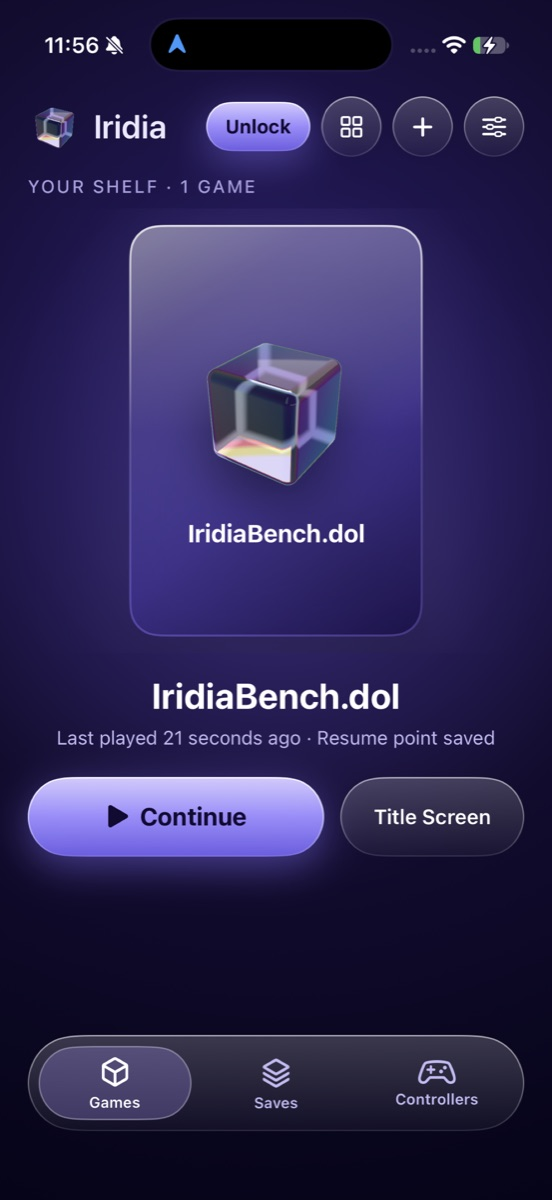
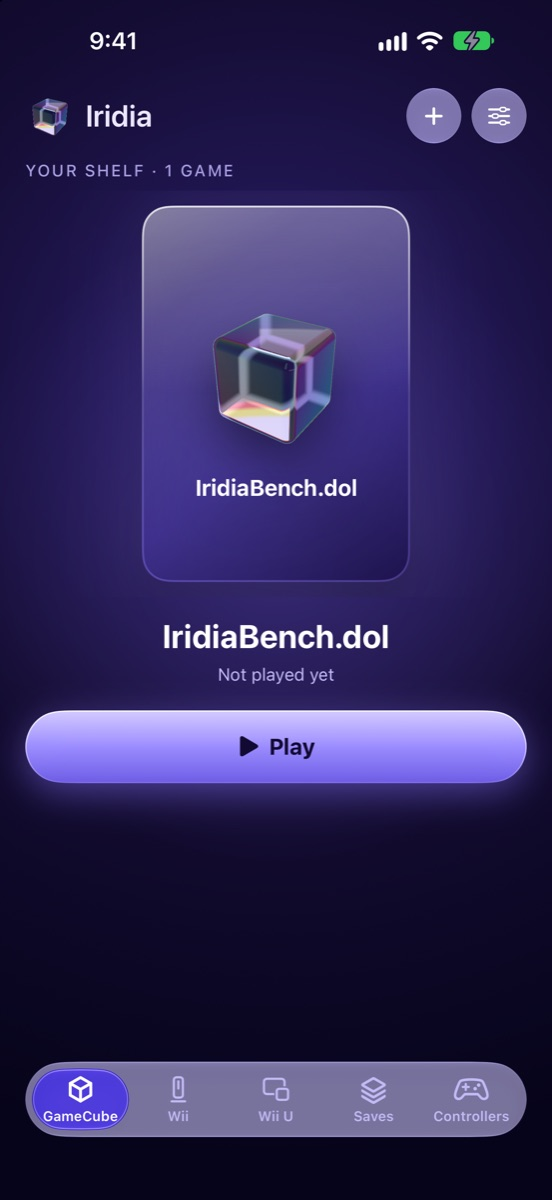
Home page for 1.2: Wii, source link, updated questions and structured data

Changed region(s): [[0.0308, 0.0, 0.9855, 0.74], [0.0308, 0.8633, 0.9547, 0.9558], [0.7391, 0.4317, 0.7699, 0.4625]]

diff --git a/index.html b/index.html
@@ -3,33 +3,69 @@
 <head>
 <meta charset="utf-8">
 <meta name="viewport" content="width=device-width, initial-scale=1">
-<title>Iridia: GameCube and Wii U emulator for iPhone and iPad</title>
-<meta name="description" content="Iridia is a GameCube emulator on the App Store for iPhone and iPad, now with experimental Wii U support. No JIT, no sideloading, Metal graphics. Plays the games you own. Free to try.">
+<title>Iridia: GameCube, Wii and Wii U emulator for iPhone and iPad</title>
+<meta name="description" content="Iridia is a GameCube, Wii and Wii U emulator on the App Store for iPhone and iPad. No JIT, no sideloading, Metal graphics. Plays the games you own. Free to try.">
 <link rel="canonical" href="https://iridiaemu.github.io/iridia/">
 <link rel="icon" href="img/icon.png">
 <link rel="apple-touch-icon" href="img/icon.png">
 <meta name="apple-itunes-app" content="app-id=6825803351">
 <meta property="og:type" content="website">
-<meta property="og:title" content="Iridia: GameCube and Wii U emulator for iPhone and iPad">
-<meta property="og:description" content="A GameCube emulator on the App Store, now with experimental Wii U support. No JIT, Metal graphics, free to try.">
+<meta property="og:site_name" content="Iridia">
+<meta property="og:title" content="Iridia: GameCube, Wii and Wii U emulator for iPhone and iPad">
+<meta property="og:description" content="A GameCube, Wii and Wii U emulator on the App Store. No JIT, no sideloading, free to try. Plays the games you own.">
 <meta property="og:url" content="https://iridiaemu.github.io/iridia/">
 <meta property="og:image" content="https://iridiaemu.github.io/iridia/img/library.jpg">
+<meta name="twitter:card" content="summary">
+<meta name="twitter:title" content="Iridia: GameCube, Wii and Wii U emulator for iPhone and iPad">
+<meta name="twitter:description" content="A GameCube, Wii and Wii U emulator on the App Store. No JIT, no sideloading, free to try. Plays the games you own.">
 <script type="application/ld+json">
 {
   "@context": "https://schema.org",
-  "@type": "MobileApplication",
+  "@type": "SoftwareApplication",
   "name": "Iridia",
-  "alternateName": "IridiaEmu",
+  "alternateName": [
+    "Iridia: Game Emulator",
+    "IridiaEmu"
+  ],
   "operatingSystem": "iOS, iPadOS",
-  "applicationCategory": "EntertainmentApplication",
-  "description": "A GameCube emulator for iPhone and iPad that runs without JIT, with experimental Wii U support. Plays the game files you own.",
-  "featureList": "GameCube emulation, experimental Wii U emulation, no JIT, Metal graphics, touch controls, MFi Xbox PlayStation and Switch controllers, save states, TV and GamePad screen layouts",
+  "applicationCategory": "GameApplication",
+  "applicationSubCategory": "Emulator",
+  "description": "A GameCube, Wii and Wii U emulator for iPhone and iPad that runs without JIT. Plays the game files you own.",
+  "featureList": "GameCube emulation, Wii emulation, experimental Wii U emulation, no JIT, Metal graphics, touch controls, Wii Remote Nunchuk and Classic Controller touch controls, MFi Xbox PlayStation and Switch controllers, save states, TV and GamePad screen layouts",
+  "softwareVersion": "1.2",
   "url": "https://iridiaemu.github.io/iridia/",
-  "downloadUrl": "https://apps.apple.com/app/id6825803351",
-  "installUrl": "https://apps.apple.com/app/id6825803351",
+  "downloadUrl": "https://apps.apple.com/app/iridia/id6825803351",
+  "installUrl": "https://apps.apple.com/app/iridia/id6825803351",
+  "sameAs": [
+    "https://apps.apple.com/app/iridia/id6825803351",
+    "https://github.com/IridiaEmu/iridia"
+  ],
   "image": "https://iridiaemu.github.io/iridia/img/icon.png",
-  "screenshot": ["https://iridiaemu.github.io/iridia/img/library.jpg", "https://iridiaemu.github.io/iridia/img/controls.jpg"],
-  "offers": { "@type": "Offer", "price": "0", "priceCurrency": "USD" }
+  "screenshot": [
+    "https://iridiaemu.github.io/iridia/img/library.jpg",
+    "https://iridiaemu.github.io/iridia/img/wii.jpg",
+    "https://iridiaemu.github.io/iridia/img/controls.jpg"
+  ],
+  "isAccessibleForFree": true,
+  "offers": [
+    {
+      "@type": "Offer",
+      "name": "Iridia",
+      "price": "0",
+      "priceCurrency": "USD",
+      "url": "https://apps.apple.com/app/iridia/id6825803351",
+      "category": "Free"
+    },
+    {
+      "@type": "Offer",
+      "name": "Unlock Full Version",
+      "description": "In-app purchase. Removes the time limit on play sessions for GameCube, Wii and Wii U.",
+      "price": "2.99",
+      "priceCurrency": "USD",
+      "url": "https://apps.apple.com/app/iridia/id6825803351",
+      "category": "In-app purchase"
+    }
+  ]
 }
 </script>
 <script type="application/ld+json">
@@ -37,20 +73,94 @@
   "@context": "https://schema.org",
   "@type": "FAQPage",
   "mainEntity": [
-    { "@type": "Question", "name": "Is there a GameCube emulator on the App Store?",
-      "acceptedAnswer": { "@type": "Answer", "text": "Yes. Iridia is a GameCube emulator available on the App Store for iPhone and iPad. Download it free, add your own game files, and play." } },
-    { "@type": "Question", "name": "Is there a Wii U emulator for iPhone?",
-      "acceptedAnswer": { "@type": "Answer", "text": "Yes. Iridia on the App Store has experimental Wii U support next to its GameCube library. It needs a device with 8 GB of memory, such as iPhone 15 Pro, any iPhone 16 or newer, or an iPad with M1 or later. Games may run slowly or show glitches." } },
-    { "@type": "Question", "name": "How do I play GameCube games on my iPhone?",
-      "acceptedAnswer": { "@type": "Answer", "text": "Install Iridia from the App Store, then add your own game files (disc backups or homebrew) with Choose a Game File in Iridia or by copying them to On My iPhone, Iridia, Games in the Files app." } },
-    { "@type": "Question", "name": "How do I play Wii U games on my iPhone?",
-      "acceptedAnswer": { "@type": "Answer", "text": "Install Iridia from the App Store and tap Wii U in the tab bar. In the Files app, copy your own Wii U game files and your keys.txt to On My iPhone, Iridia, Wii U. Disc images (WUD, WUX), installed title folders and homebrew (RPX) work." } },
-    { "@type": "Question", "name": "Does Iridia need JIT or sideloading?",
-      "acceptedAnswer": { "@type": "Answer", "text": "No. Iridia runs without JIT, for GameCube and Wii U, so it works straight from the App Store with no sideloading, no AltStore and no debugger." } },
-    { "@type": "Question", "name": "Does Iridia come with games?",
-      "acceptedAnswer": { "@type": "Answer", "text": "No. Iridia doesn't include any games, keys, BIOS or firmware. You play game files you own." } },
-    { "@type": "Question", "name": "Is Iridia free?",
-      "acceptedAnswer": { "@type": "Answer", "text": "Iridia is free to download. Every GameCube game launch gives you 10 minutes of free play, and every Wii U game launch 20 minutes. One one-time purchase unlocks unlimited play for both. No subscription, no ads, no tracking." } }
+    {
+      "@type": "Question",
+      "name": "Is there a GameCube emulator on the App Store?",
+      "acceptedAnswer": {
+        "@type": "Answer",
+        "text": "Yes. Iridia is a GameCube, Wii and Wii U emulator available on the App Store for iPhone and iPad. Download it free, add your own game files, and play."
+      }
+    },
+    {
+      "@type": "Question",
+      "name": "Can I play Wii games on iPhone?",
+      "acceptedAnswer": {
+        "@type": "Answer",
+        "text": "Yes. Iridia 1.2 adds a Wii shelf next to GameCube and Wii U. It has touch controls for the Wii Remote, Nunchuk and Classic Controller, the pointer is aimed by touch or by tilting your device, and game controllers work too. Real Wii Remotes can't connect, because iOS doesn't allow it."
+      }
+    },
+    {
+      "@type": "Question",
+      "name": "How do I play Wii games on my iPhone?",
+      "acceptedAnswer": {
+        "@type": "Answer",
+        "text": "Install Iridia from the App Store and tap Wii in the tab bar. Tap +, then Choose a Game File, or copy your own game files to On My iPhone, Iridia, Wii in the Files app. RVZ, WIA, ISO, WBFS, GCZ and CISO disc images and homebrew work, and RVZ is the best choice. ZIP and 7Z files are unpacked for you."
+      }
+    },
+    {
+      "@type": "Question",
+      "name": "Is there a Wii U emulator for iPhone?",
+      "acceptedAnswer": {
+        "@type": "Answer",
+        "text": "Yes. Iridia has experimental Wii U support next to its GameCube and Wii shelves. It needs a device with 8 GB of memory, such as iPhone 15 Pro or later, an iPad with M1 or later, or iPad mini with A17 Pro. Games may run slowly or show glitches."
+      }
+    },
+    {
+      "@type": "Question",
+      "name": "How do I play GameCube games on my iPhone?",
+      "acceptedAnswer": {
+        "@type": "Answer",
+        "text": "Install Iridia from the App Store, then tap +, then Choose a Game File, or copy your own game files to On My iPhone, Iridia, GameCube in the Files app (the folder was named Games before version 1.2). ISO, RVZ, GCM and CISO files work, and ZIP and 7Z files are unpacked for you."
+      }
+    },
+    {
+      "@type": "Question",
+      "name": "How do I play Wii U games on my iPhone?",
+      "acceptedAnswer": {
+        "@type": "Answer",
+        "text": "Install Iridia and tap Wii U in the tab bar. Tap +, then Choose a Game File, or copy your own game files to On My iPhone, Iridia, Wii U in the Files app. WUA files, title folders and homebrew (RPX) work."
+      }
+    },
+    {
+      "@type": "Question",
+      "name": "Does Iridia need JIT or sideloading?",
+      "acceptedAnswer": {
+        "@type": "Answer",
+        "text": "No. Iridia runs without JIT for GameCube, Wii and Wii U, so it works straight from the App Store with no sideloading, no AltStore and no debugger."
+      }
+    },
+    {
+      "@type": "Question",
+      "name": "Does Iridia come with games?",
+      "acceptedAnswer": {
+        "@type": "Answer",
+        "text": "No. Iridia includes no games, keys, BIOS or firmware. You play game files you own: your disc backups or homebrew."
+      }
+    },
+    {
+      "@type": "Question",
+      "name": "Which iPhones work?",
+      "acceptedAnswer": {
+        "@type": "Answer",
+        "text": "Iridia needs iOS 26 or later. GameCube plays best on newer phones, and Wii games run best on recent iPhones and iPads. Wii U needs a device with 8 GB of memory: iPhone 15 Pro or later, an iPad with M1 or later, or iPad mini with A17 Pro. How well a game runs depends on the game and on your device, so use the free play time to check your games before you buy the unlock."
+      }
+    },
+    {
+      "@type": "Question",
+      "name": "Is Iridia free?",
+      "acceptedAnswer": {
+        "@type": "Answer",
+        "text": "Iridia is free to download. Every time you start a game you get a free play session: 10 minutes for GameCube and Wii, 20 minutes for Wii U, as often as you like. One purchase unlocks unlimited play on all three. No subscription, no ads, no tracking."
+      }
+    },
+    {
+      "@type": "Question",
+      "name": "Is Iridia open source?",
+      "acceptedAnswer": {
+        "@type": "Answer",
+        "text": "Yes. Iridia is free software based on the Dolphin and Cemu emulators. The source is at github.com/IridiaEmu/iridia."
+      }
+    }
   ]
 }
 </script>
@@ -67,7 +177,7 @@ a{color:var(--link)}hr{border:0;border-top:1px solid var(--line);margin:40px 0 2
 .lead{font-size:20px;margin:16px 0 24px}
 .store{display:inline-block;background:var(--btn);color:var(--btnfg);text-decoration:none;font-weight:600;padding:14px 26px;border-radius:14px;font-size:18px}
 .shots{display:flex;gap:16px;margin:32px 0 0;overflow-x:auto}
-.shots img{width:calc(50% - 8px);max-width:300px;border-radius:22px;border:1px solid var(--line)}
+.shots img{width:calc(33.3% - 11px);min-width:150px;max-width:230px;border-radius:22px;border:1px solid var(--line)}
 nav a{margin-right:16px;font-size:15px}
 </style>
 </head>
@@ -77,59 +187,70 @@ nav a{margin-right:16px;font-size:15px}
 <img src="img/icon.png" alt="Iridia app icon">
 <h1>Iridia</h1>
 </header>
-<p class="lead">Play the GameCube games you own on iPhone and iPad, and now Wii U games too (experimental). Iridia is an emulator on the App Store: no JIT, no sideloading, made for Apple devices.</p>
-<p><a class="store" href="https://apps.apple.com/app/id6825803351">Download on the App Store</a></p>
-<p class="muted">Free to download. Every game launch includes free play time (10 minutes for GameCube, 20 for Wii U), and one one-time purchase unlocks unlimited play for both.</p>
+<p class="lead"><strong>Iridia: GameCube, Wii and Wii U emulator for iPhone and iPad.</strong> Play the games you own, straight from the App Store: no JIT, no sideloading, made for Apple devices.</p>
+<p><a class="store" href="https://apps.apple.com/app/iridia/id6825803351">Download on the App Store</a></p>
+<p class="muted">Free to download. Every time you start a game you get free play time (10 minutes for GameCube and Wii, 20 for Wii U), and one purchase unlocks unlimited play on all three. Open source: <a href="https://github.com/IridiaEmu/iridia">github.com/IridiaEmu/iridia</a>.</p>
 
 <div class="shots">
-<img src="img/library.jpg" alt="Iridia's GameCube game library on iPhone">
+<img src="img/library.jpg" alt="Iridia's GameCube shelf on iPhone, with tabs for GameCube, Wii and Wii U">
+<img src="img/wii.jpg" alt="Iridia's Wii shelf on iPhone">
 <img src="img/controls.jpg" alt="Iridia's touch controls on iPhone">
 </div>
 
 <h2>Why Iridia</h2>
 <ul>
 <li><strong>Straight from the App Store.</strong> Iridia runs without JIT, so there's nothing to sideload and no extra steps.</li>
-<li><strong>GameCube and Wii U in one app.</strong> Your GameCube shelf, plus a Wii U section with its own controls.</li>
-<li><strong>Fast on iPhone.</strong> A tuned interpreter and Metal graphics, with up to 8x internal resolution for GameCube on recent iPhones.</li>
-<li><strong>Touch or controller.</strong> Touch controls that look and feel like the real pad, or use any MFi, Xbox, PlayStation or Switch controller.</li>
-<li><strong>Pick up where you left off.</strong> Save states, memory cards and per-game settings.</li>
+<li><strong>One library for GameCube, Wii and Wii U.</strong> Each system has its own shelf, and you switch between them in the tab bar.</li>
+<li><strong>Fast on iPhone.</strong> A tuned interpreter and Metal graphics, with up to 8x internal resolution for GameCube on newer devices.</li>
+<li><strong>Touch or controller.</strong> Touch controls you can move and resize, or use any MFi, Xbox, PlayStation or Switch controller.</li>
+<li><strong>Pick up where you left off.</strong> Save states, memory cards and settings for each game.</li>
 <li><strong>Private.</strong> No ads, no tracking, no account.</li>
+</ul>
+
+<h2>Wii (new in 1.2)</h2>
+<ul>
+<li><strong>Wii controls on screen.</strong> Touch controls for the Wii Remote, Nunchuk, sideways Wii Remote and Classic Controller. Each game remembers which one it uses.</li>
+<li><strong>Aim the pointer by touch or tilt.</strong> Drag on the picture, or tilt your iPhone or iPad. Shake and recenter are on screen too.</li>
+<li><strong>Game controllers.</strong> MFi, Xbox, PlayStation and Switch controllers work. Real Wii Remotes can't connect, because iOS doesn't allow it.</li>
+<li><strong>Files that work:</strong> RVZ, WIA, ISO, WBFS, GCZ and CISO disc images, plus homebrew. RVZ is the best choice.</li>
+<li>Wii games need more power than GameCube games, and run best on recent iPhones and iPads.</li>
 </ul>
 
 <h2>Wii U (experimental)</h2>
 <ul>
-<li><strong>Both screens, your way.</strong> TV only, TV with the GamePad in a small window, GamePad full screen, or both stacked on iPad and iPhone in portrait. Swap the two screens any time, and each game remembers its layout.</li>
+<li><strong>Both screens, your way.</strong> TV only, TV with the GamePad in a small window, GamePad full screen, or both stacked (on iPad, and on iPhone in portrait). Swap the two screens any time, and each game remembers its layout.</li>
 <li><strong>Touch the GamePad screen.</strong> Tap and draw right on the GamePad picture, with your finger or Apple Pencil.</li>
 <li><strong>Motion controls.</strong> Tilt your iPhone or iPad to aim, like the GamePad.</li>
-<li><strong>Needs 8 GB of memory:</strong> iPhone 15 Pro, any iPhone 16 or newer, iPad with M1 or later, or iPad mini with A17 Pro. Games may run slowly or show glitches.</li>
+<li><strong>Needs 8 GB of memory:</strong> iPhone 15 Pro or later, iPad with M1 or later, or iPad mini with A17 Pro. Games may run slowly or show glitches.</li>
 </ul>
 
 <h2>Questions</h2>
 <h3>Is there a GameCube emulator on the App Store?</h3>
-<p>Yes. Iridia is a GameCube emulator available on the App Store for iPhone and iPad. Download it free, add your own game files, and play.</p>
+<p>Yes. Iridia is a GameCube, Wii and Wii U emulator available on the App Store for iPhone and iPad. Download it free, add your own game files, and play.</p>
+<h3>Can I play Wii games on iPhone?</h3>
+<p>Yes. Iridia 1.2 adds a Wii shelf next to GameCube and Wii U. It has touch controls for the Wii Remote, Nunchuk and Classic Controller, the pointer is aimed by touch or by tilting your device, and game controllers work too. Real Wii Remotes can&#x27;t connect, because iOS doesn&#x27;t allow it.</p>
+<h3>How do I play Wii games on my iPhone?</h3>
+<p>Install Iridia from the App Store and tap Wii in the tab bar. Tap +, then Choose a Game File, or copy your own game files to On My iPhone, Iridia, Wii in the Files app. RVZ, WIA, ISO, WBFS, GCZ and CISO disc images and homebrew work, and RVZ is the best choice. ZIP and 7Z files are unpacked for you.</p>
 <h3>Is there a Wii U emulator for iPhone?</h3>
-<p>Yes. Iridia on the App Store has experimental Wii U support next to its GameCube library. It needs a device with 8 GB of memory (see above). Wii U support is new: games may run slowly or show glitches, so use the free play time to check your games first.</p>
+<p>Yes. Iridia has experimental Wii U support next to its GameCube and Wii shelves. It needs a device with 8 GB of memory, such as iPhone 15 Pro or later, an iPad with M1 or later, or iPad mini with A17 Pro. Games may run slowly or show glitches.</p>
 <h3>How do I play GameCube games on my iPhone?</h3>
-<p>Install Iridia from the App Store, then add your game files:</p>
-<ul>
-<li>In Iridia, tap Choose a Game File, or</li>
-<li>In the Files app, copy them to On My iPhone &rarr; Iridia &rarr; Games.</li>
-</ul>
-<p>ISO, RVZ, GCM and CISO files work. ZIP and 7Z archives are unpacked for you.</p>
+<p>Install Iridia from the App Store, then tap +, then Choose a Game File, or copy your own game files to On My iPhone, Iridia, GameCube in the Files app (the folder was named Games before version 1.2). ISO, RVZ, GCM and CISO files work, and ZIP and 7Z files are unpacked for you.</p>
 <h3>How do I play Wii U games on my iPhone?</h3>
-<p>Install Iridia and tap Wii U in the tab bar. In the Files app, copy your own game files and your keys.txt to On My iPhone &rarr; Iridia &rarr; Wii U. Disc images (WUD, WUX), installed title folders and homebrew (RPX) work.</p>
+<p>Install Iridia and tap Wii U in the tab bar. Tap +, then Choose a Game File, or copy your own game files to On My iPhone, Iridia, Wii U in the Files app. WUA files, title folders and homebrew (RPX) work.</p>
 <h3>Does Iridia need JIT or sideloading?</h3>
-<p>No. Iridia runs without JIT, for GameCube and Wii U, so it works straight from the App Store with no sideloading, no AltStore and no debugger.</p>
+<p>No. Iridia runs without JIT for GameCube, Wii and Wii U, so it works straight from the App Store with no sideloading, no AltStore and no debugger.</p>
 <h3>Does Iridia come with games?</h3>
-<p>No. Iridia doesn't include any games, keys, BIOS or firmware. You play game files you own: your disc backups or homebrew.</p>
+<p>No. Iridia includes no games, keys, BIOS or firmware. You play game files you own: your disc backups or homebrew.</p>
 <h3>Which iPhones work?</h3>
-<p>GameCube needs an iPhone 12 or newer. Wii U needs a device with 8 GB of memory. How well a game runs depends on the game and on your device, so use the free play time to check your games before you buy the unlock.</p>
+<p>Iridia needs iOS 26 or later. GameCube plays best on newer phones, and Wii games run best on recent iPhones and iPads. Wii U needs a device with 8 GB of memory: iPhone 15 Pro or later, an iPad with M1 or later, or iPad mini with A17 Pro. How well a game runs depends on the game and on your device, so use the free play time to check your games before you buy the unlock.</p>
 <h3>Is Iridia free?</h3>
-<p>Iridia is free to download. Every GameCube game launch gives you 10 minutes of free play and every Wii U game launch 20 minutes, as often as you like. One one-time purchase unlocks unlimited play for both. No subscription.</p>
+<p>Iridia is free to download. Every time you start a game you get a free play session: 10 minutes for GameCube and Wii, 20 minutes for Wii U, as often as you like. One purchase unlocks unlimited play on all three. No subscription, no ads, no tracking.</p>
+<h3>Is Iridia open source?</h3>
+<p>Yes. Iridia is free software based on the Dolphin and Cemu emulators. The source is at <a href="https://github.com/IridiaEmu/iridia">github.com/IridiaEmu/iridia</a>.</p>
 
 <hr>
-<nav><a href="support/">Support</a><a href="privacy/">Privacy Policy</a></nav>
-<p class="muted">GameCube and Wii U are trademarks of Nintendo. Iridia is not affiliated with or endorsed by Nintendo.</p>
+<nav><a href="https://apps.apple.com/app/iridia/id6825803351">App Store</a><a href="https://github.com/IridiaEmu/iridia">Source on GitHub</a><a href="support/">Support</a><a href="privacy/">Privacy Policy</a></nav>
+<p class="muted">GameCube, Wii and Wii U are Nintendo trademarks. Iridia is not affiliated with or endorsed by Nintendo.</p>
 </main>
 </body>
 </html>

diff --git a/support/index.html b/support/index.html
@@ -24,15 +24,15 @@ nav a{margin-right:16px;font-size:15px}
 <p>Email <a href="mailto:iridiadev@gmail.com">iridiadev@gmail.com</a>. Please include your iPhone or iPad model, your iOS version, and the game you were playing. You can also use Report a Bug in Iridia's Settings, which fills in your device and app version for you.</p>
 
 <h2>Which iPhones work?</h2>
-<p>Iridia needs an iPhone 12 or newer. How well a game runs depends on the game and on your phone. Every time you start a game you get 10 minutes of free play, so you can check how your games run before you buy the unlock.</p>
+<p>Iridia needs iOS 26 or later. GameCube plays best on newer phones, and Wii games run best on recent iPhones and iPads. Wii U needs a device with 8 GB of memory: iPhone 15 Pro or later, an iPad with M1 or later, or iPad mini with A17 Pro. How well a game runs depends on the game and on your device. Every time you start a game you get free play time (10 minutes for GameCube and Wii, 20 for Wii U), so you can check how your games run before you buy the unlock.</p>
 
 <h2>How do I add games?</h2>
-<p>Iridia doesn't include any games. Add your own game files (your disc backups or homebrew):</p>
+<p>Iridia includes no games, keys, BIOS or firmware. Add your own game files (your disc backups or homebrew):</p>
 <ul>
-<li>In Iridia, tap Choose a Game File, or</li>
-<li>In the Files app, copy them to On My iPhone &rarr; Iridia &rarr; Games.</li>
+<li>In Iridia, tap +, then Choose a Game File, or</li>
+<li>In the Files app, copy them to On My iPhone &rarr; Iridia, into the GameCube, Wii or Wii U folder. (The GameCube folder was named Games before version 1.2.)</li>
 </ul>
-<p>ISO, RVZ, GCM and CISO files work. ZIP and 7Z archives are unpacked for you.</p>
+<p>GameCube: ISO, RVZ, GCM and CISO. Wii: RVZ, WIA, ISO, WBFS, GCZ and CISO, plus homebrew; RVZ is the best choice. Wii U: WUA files, title folders and homebrew (RPX). ZIP and 7Z files are unpacked for you.</p>
 
 <h2>I bought the unlock on another device</h2>
 <p>Open the unlock screen (tap Unlock in your library) and tap Restore Purchases. Use the same Apple Account you bought it with.</p>
@@ -43,7 +43,7 @@ nav a{margin-right:16px;font-size:15px}
 <h2>A game runs slowly or gets hot</h2>
 <p>Try a lower resolution in the in-game Performance panel. Phones slow down when they get warm, so a game can run faster at the start of a session than after 20 minutes. Taking the case off or playing somewhere cooler helps.</p>
 <hr>
-<nav><a href="../support/">Support</a><a href="../privacy/">Privacy Policy</a></nav>
+<nav><a href="../">Home</a><a href="../support/">Support</a><a href="../privacy/">Privacy Policy</a><a href="https://github.com/IridiaEmu/iridia">Source on GitHub</a></nav>
 </main>
 </body>
 </html>
